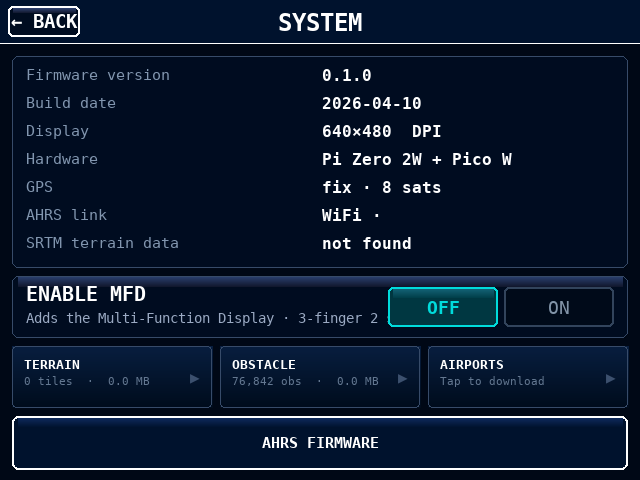
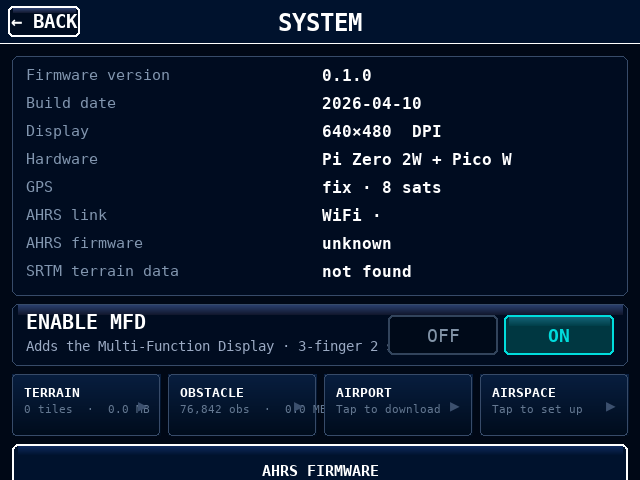
previews(pi_zero): generate winds / traffic / METAR / MFD shots + manual refs
pi_zero is pure pygame, so the offline --screenshots batch renders headless.
Add full-screen MFD scenes for the new overlays (bare MFD, traffic with
threat-coloured diamonds, METAR category dots, winds barbs) using synthetic
data (the batch has no live feeds; tint suppressed since there's no SRTM), and
regenerate the piZ preview set. Reference the new PNGs in USER_MANUAL_ZERO
§16A/16B/16C. (3 setup-screen shots also refreshed — they gained NOTAM/winds
fields.)

Changed region(s): [[0.0, 0.4688, 1.0, 0.9375], [0.0, 0.9688, 1.0, 1.0]]

diff --git a/pi_zero/pfd.py b/pi_zero/pfd.py
@@ -13221,6 +13221,72 @@ def main():
         _seed(roll=0, pitch=2, hdg=133, alt=8500, speed=115)
         _save("pfd_preview.png")
 
+        # ── MFD overlay scenes (full-screen MFD: bare / traffic / METAR / winds) ─
+        # The offline batch has no live weather/traffic feeds, so synthesise a
+        # little data near KSEZ and render the full-screen MFD for the manual.
+        _CLAT, _CLON = 34.70, -111.95
+        _winds_barbs_real = _winds_barbs
+
+        def _enter_mfd(zoom_nm, overlay):
+            _seed(roll=0, pitch=0, hdg=360, alt=9500, speed=120, vspeed=0,
+                  lat=_CLAT, lon=_CLON)
+            disp["display_mode"] = "mfd"
+            disp["ds"]["mfd_enabled"] = True
+            disp["ds"]["map_zoom_nm"] = zoom_nm
+            disp["ds"]["winds_zoom_nm"] = zoom_nm if zoom_nm in (40, 80, 160) else 80
+            disp["ds"]["map_orient"] = "nrth"
+            # No SRTM tiles in the offline batch, so suppress the terrain tint
+            # (otherwise the bare-MFD / traffic shots show "BUILDING…").
+            disp["ds"]["map_show_terrain"] = False
+            _ovl.apply(disp["ds"], overlay)
+            disp["traffic"] = {"targets": []}
+            disp.setdefault("weather", {})["metars"] = []
+
+        # Bare full-screen MFD chrome + map.
+        _enter_mfd(40, "tfc")
+        _save("preview_mfd.png")
+
+        # Traffic — alert / proximate / advisory diamonds close in.
+        _enter_mfd(20, "tfc")
+        disp["traffic"] = {"targets": [
+            {"lat": _CLAT + 0.04, "lon": _CLON + 0.05, "track_deg": 215,
+             "threat": "alert",     "rel_alt_ft": -200, "vvel_fpm": -300},
+            {"lat": _CLAT - 0.07, "lon": _CLON + 0.10, "track_deg": 90,
+             "threat": "proximate", "rel_alt_ft":  900, "vvel_fpm": 0},
+            {"lat": _CLAT + 0.11, "lon": _CLON - 0.06, "track_deg": 305,
+             "threat": "other",     "rel_alt_ft": 1600, "vvel_fpm": 600},
+        ]}
+        _save("preview_traffic.png")
+        disp["traffic"] = {"targets": []}
+
+        # METAR — flight-category dots around the area.
+        _enter_mfd(80, "wx")
+        disp["weather"]["metars"] = [
+            {"lat": 34.85, "lon": -111.79, "fltcat": "VFR",  "icao": "KSEZ"},
+            {"lat": 35.14, "lon": -111.67, "fltcat": "MVFR", "icao": "KFLG"},
+            {"lat": 34.65, "lon": -112.42, "fltcat": "IFR",  "icao": "KPRC"},
+            {"lat": 33.43, "lon": -112.01, "fltcat": "LIFR", "icao": "KPHX"},
+        ]
+        _save("preview_metar.png")
+        disp["weather"]["metars"] = []
+
+        # Winds — a coarse barb grid (synthetic; real data comes from the feed).
+        _enter_mfd(80, "wnd")
+        disp["ds"]["winds_alt_ft"] = 9000
+        _fake_barbs = [
+            {"lat": _CLAT + i * 0.55, "lon": _CLON + j * 0.65,
+             "dir": (250 + i * 8) % 360, "spd": 15 + ((i + j) % 4) * 5,
+             "temp": -4 - i * 2, "lv": False}
+            for i in range(-3, 4) for j in range(-4, 5)
+        ]
+        globals()["_winds_barbs"] = lambda: _fake_barbs
+        _save("preview_winds.png")
+        globals()["_winds_barbs"] = _winds_barbs_real
+
+        # Back to the PFD for the remaining scenes.
+        disp["display_mode"] = "pfd"
+        _ovl.apply(disp["ds"], "tfc")
+
         # ── Numpad overlays ───────────────────────────────────────────────────
         _seed(roll=0, pitch=2, hdg=133, alt=8500, speed=115)
         disp["mode"] = "numpad"

diff --git a/Docs/USER_MANUAL_ZERO.md b/Docs/USER_MANUAL_ZERO.md
@@ -597,6 +597,8 @@ The Pi Zero must be on an internet-reachable network to download. Switch to home
 
 The Pi Zero has a full-screen moving-map MFD in addition to the PFD.
 
+![Full-screen MFD — moving map with D2/FPL/OVLY chrome and the bottom data strip](../pi_zero/previews/preview_mfd.png)
+
 - **Swap PFD ↔ MFD:** a **3-finger hold (~2 s)** (the 2-finger 0.8 s hold opens the setup menu — §8). The swap is gated by **ENABLE MFD** (§13); the unit boots to the PFD.
 - **Chrome:** **D→** (direct-to) top-left, **FPL** top-right, the **TRK↑/N↑** orientation label, **OVLY** overlay cycle, the **RNG** label, **−/+** zoom buttons, and a **CTR** recenter button that appears when the map is panned. Drag the map to pan; tap **CTR** (or the own-ship chevron) to recenter.
 - **Data strip:** a bottom row of **8 readout slots** (GS · TRK · ALT · WPT · BTW · DIST · ETE · ETA by default); tap a slot to reassign it. Persists in `data/settings.json`.
@@ -610,6 +612,9 @@ The Pi Zero shows the same internet + FIS-B weather as the Pi 4 — METARs, TAFs
 - **Source toggle** — tap the **WX** status line to cycle **RADIO / AUTO / INET** (a parallel **ADS-B** line does the same for traffic). Status reads e.g. `WX AUTO R3 I12 2m` (mode · radio count · internet count · age; green = receiving, amber = none yet). Readouts are tagged `FIS-B` / `INET` with a data-age.
 - **OVLY cycle** — tap the **OVLY** label to step the single active overlay: **ASP → TFC → MET → WND → NEX**.
 - **MET page** — station dots coloured by category (**green VFR · blue MVFR · red IFR · magenta LIFR**); tap a dot for the **METAR / TAF / AIRMET / SIGMET / NOTAM** readout picker (nearest-first, scrollable, ON-ROUTE flags). Graphical AIRMET/SIGMET areas are tappable.
+
+![MET overlay — flight-category station dots on the MFD](../pi_zero/previews/preview_metar.png)
+![WND overlay — wind barbs + temperatures with the alt / time buttons](../pi_zero/previews/preview_winds.png)
 - **NEX page** — NEXRAD reflectivity with receipt-age and **valid**-age badges (green < 10 min, amber < 20, red beyond).
 - **Winds (WND)** — see §10.
 
@@ -618,6 +623,8 @@ NOTAMs need the free FAA key entered in Connectivity (§12).
 ## 16C. Traffic (ADS-B / FIS-B IN)
 
 Nearby aircraft from ADS-B IN (radio GDL90/UDP or the built-in internet feed; tap the **ADS-B** status line to cycle the source). Behaviour matches Pi 4 §16G:
+
+![Traffic — alert/proximate/advisory diamonds with relative-altitude tags](../pi_zero/previews/preview_traffic.png)
 
 - **Diamonds** with a heading leader and a relative-altitude tag; colour by threat — **red alert** (≤ 3 NM and ≤ 600 ft), **amber proximate** (≤ 6 NM and ≤ 1200 ft), **cyan** advisory.
 - On non-traffic pages traffic is clamped to nearby; the **TFC** page shows everything. **Alert-class is never hidden.** Tap a target for the detail card; declutter with **TFC ALT** / **TFC RANGE** (§10).
